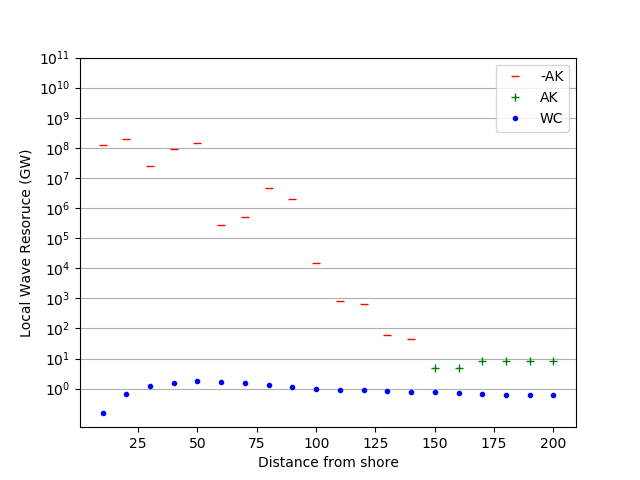
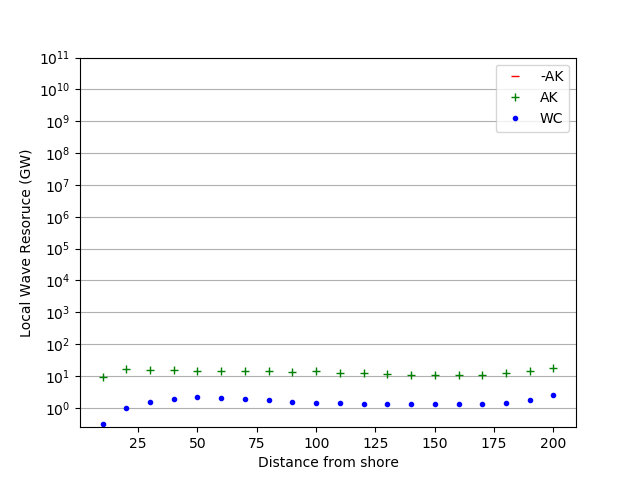
Use new local results!

diff --git a/show_results.py b/show_results.py
@@ -2,7 +2,9 @@ import pyDictH5 as pdh5
 import numpy as np
 import matplotlib.pyplot as plt
 
-regions = {'ak', 'at', 'prusvi', 'wc'}
+regions = {'ak', 'at', 'prusvi', 'wc', 'hi'}
+scenario = 'baseline'
+scenario = 'extraction'
 
 remote = {}
 local = {}
@@ -11,19 +13,18 @@ ltot = {}
 
 unit = 'GW'
 unit = 'TWh/yr'
+_factordict = {
+    'GW': 1e9,
+    'TWh/yr': 365 * 24 * 1e-12,
+}
+factor = _factordict[unit]
 
 for ireg, region in enumerate(regions):
-    rd = remote[region] = pdh5.load('tmpdata/results/baseline/{}.remote-totals.h5'.format(region))
-    ld = local[region] = pdh5.load('tmpdata/results/baseline/{}.local-totals.h5'.format(region))
+    rd = remote[region] = pdh5.load('results/{}/{}.remote-totals.h5'.format(scenario, region))
+    ld = local[region] = pdh5.load('results/{}/{}.local-totals.h5'.format(scenario, region))
 
-    if unit == 'GW':
-        factor = 1e-9
-    elif unit == 'TWh/yr':
-        factor = 365 * 24 * 1e-12
-    else:
-        raise Exception("Invalid unit specification.")
     rd['oneway'] = rd['1way']
-        
+
     rtot[region] = {m: (np.average(rd[m][:, -1], weights=rd['Nhour']) * factor)
                     for m in ['oneway', 'unit', 'bdir', 'trad']}
     ltot[region] = {m: (np.average(ld[m][:, 2:-2].sum(-1), weights=ld['Nhour']) * factor)
@@ -49,42 +50,3 @@ for ireg, region in enumerate(regions):
     lt = ltot[region]
     print("{:10s}: {stot: 7.4g} {sin: 7.4g} {sds: 7.4g} {snl: 7.4g} {sice: 7.4g} {sbt: 7.4g}"
           .format(region, **lt))
-
-
-fctr = 1e-9
-fignum = 10
-fig = plt.figure(fignum)
-fig.clf()
-fig, ax = plt.subplots(1, 1, num=fignum)
-t = local['ak'].time
-dnow = local['ak'].stot.sum(-1) * fctr
-pos = dnow > 0
-ax.plot(t[~pos], -dnow[~pos], '_', color='r', label='-AK')
-ax.semilogy(t[pos], dnow[pos], 'g+', label='AK')
-dnow = local['wc'].stot.sum(-1) * fctr
-ax.semilogy(t, dnow, 'b.', label='WC')
-ax.set_ylabel('Local Wave Resoruce (GW)')
-ax.legend()
-ax.set_yticks(np.logspace(0,11,12))
-ax.yaxis.grid(True)
-ax.set_xlabel("Time")
-fig.savefig('fig/AK-Resource.time.png')
-
-fctr = 1e-9
-fignum = 12
-fig = plt.figure(fignum)
-fig.clf()
-fig, ax = plt.subplots(1, 1, num=fignum)
-r = local['ak'].range
-dnow = local['ak'].stot.mean(0) * fctr
-pos = dnow > 0
-ax.plot(r[~pos], -dnow[~pos], '_', color='r', label='-AK')
-ax.semilogy(r[pos], dnow[pos], 'g+', label='AK')
-dnow = local['wc'].stot.mean(0) * fctr
-ax.semilogy(r, dnow, 'b.', label='WC')
-ax.set_ylabel('Local Wave Resoruce (GW)')
-ax.legend()
-ax.set_yticks(np.logspace(0,11,12))
-ax.yaxis.grid(True)
-ax.set_xlabel("Distance from shore")
-fig.savefig("fig/AK-Resource.distance.png")
